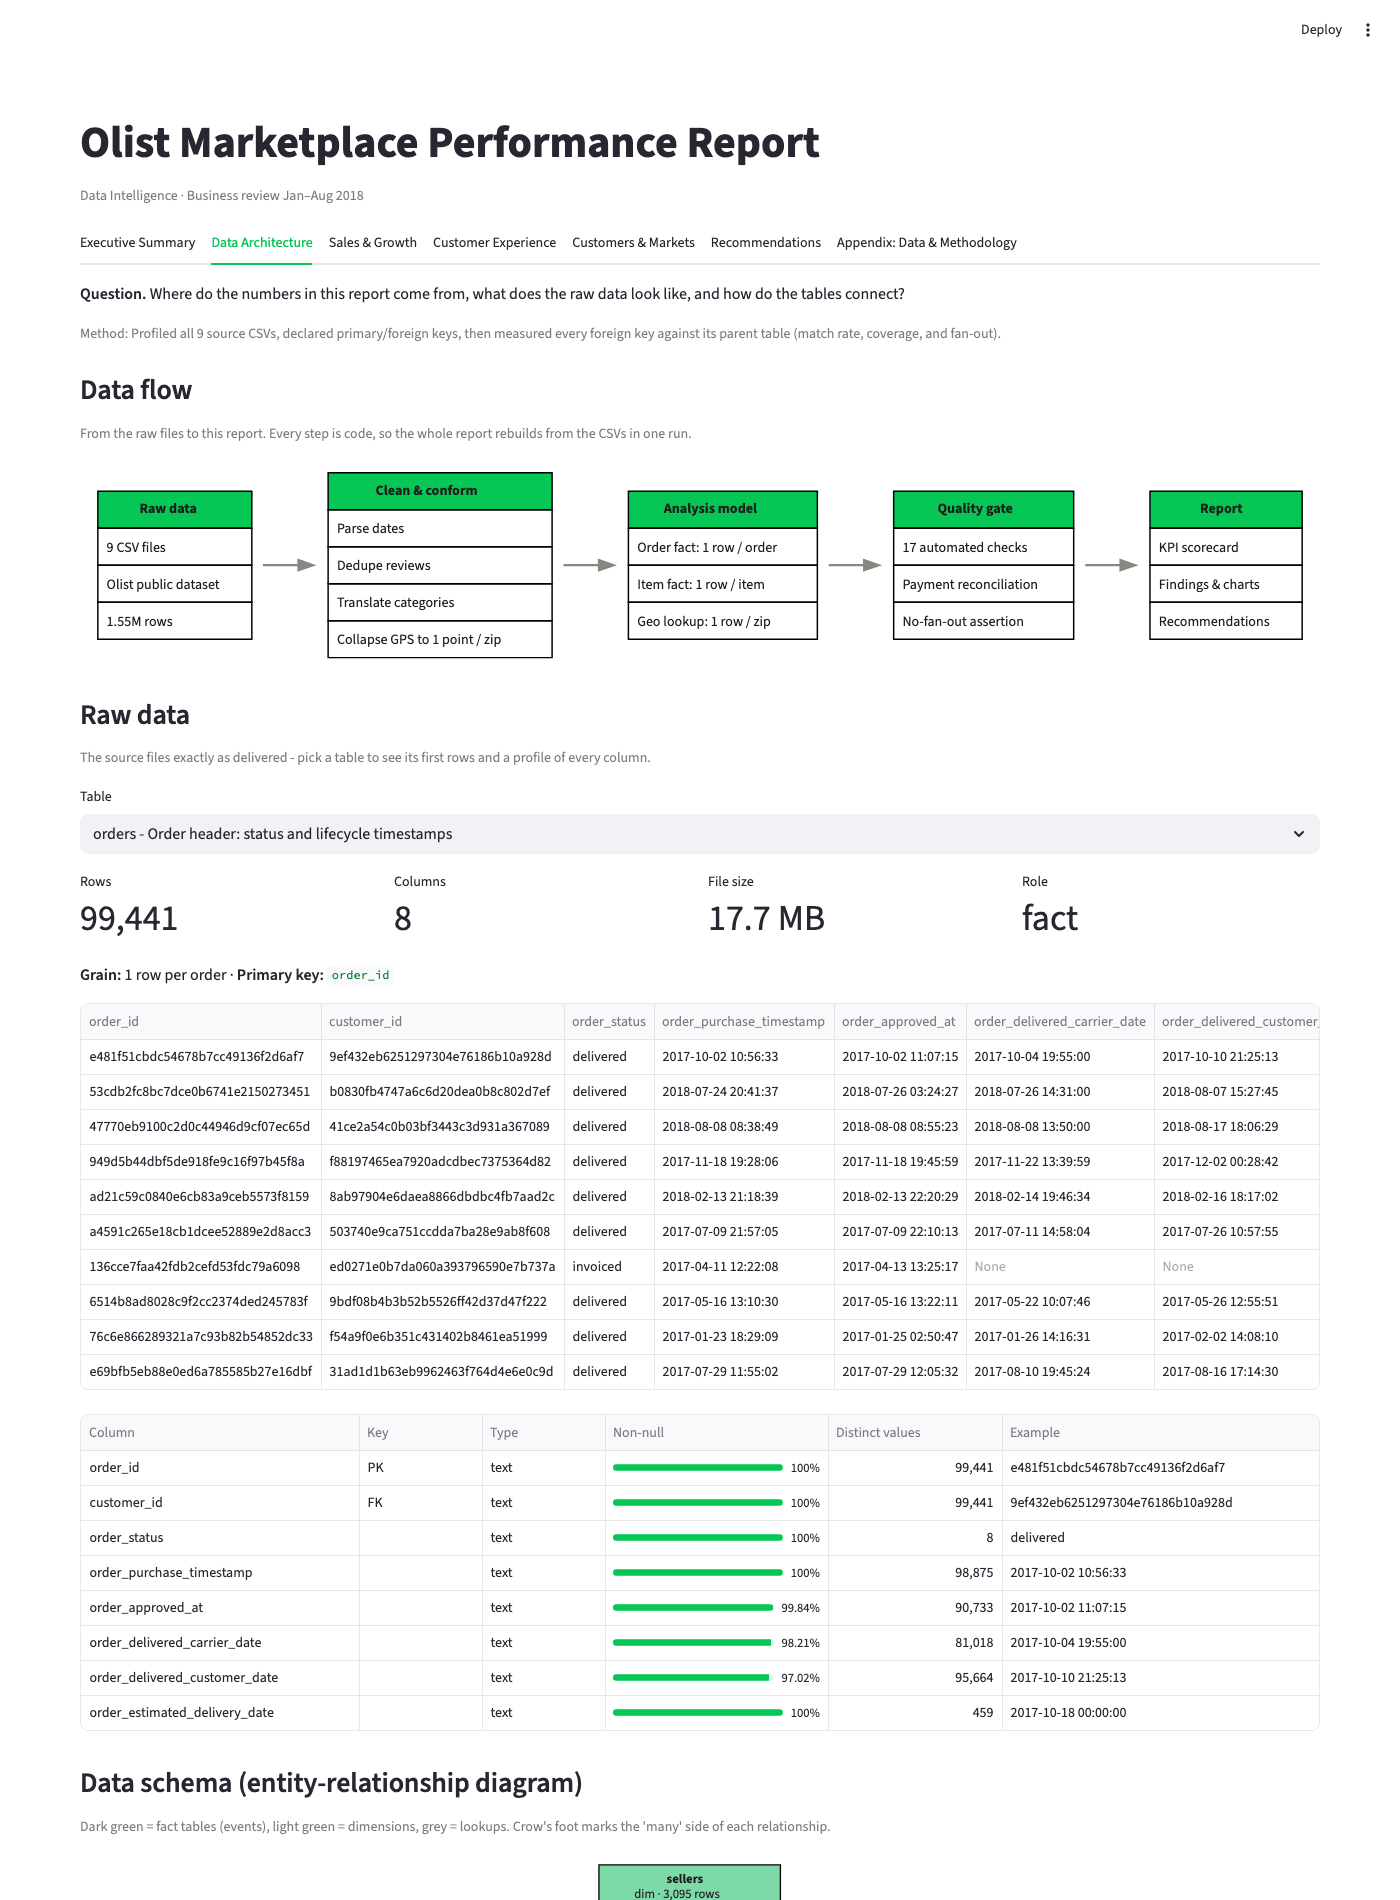
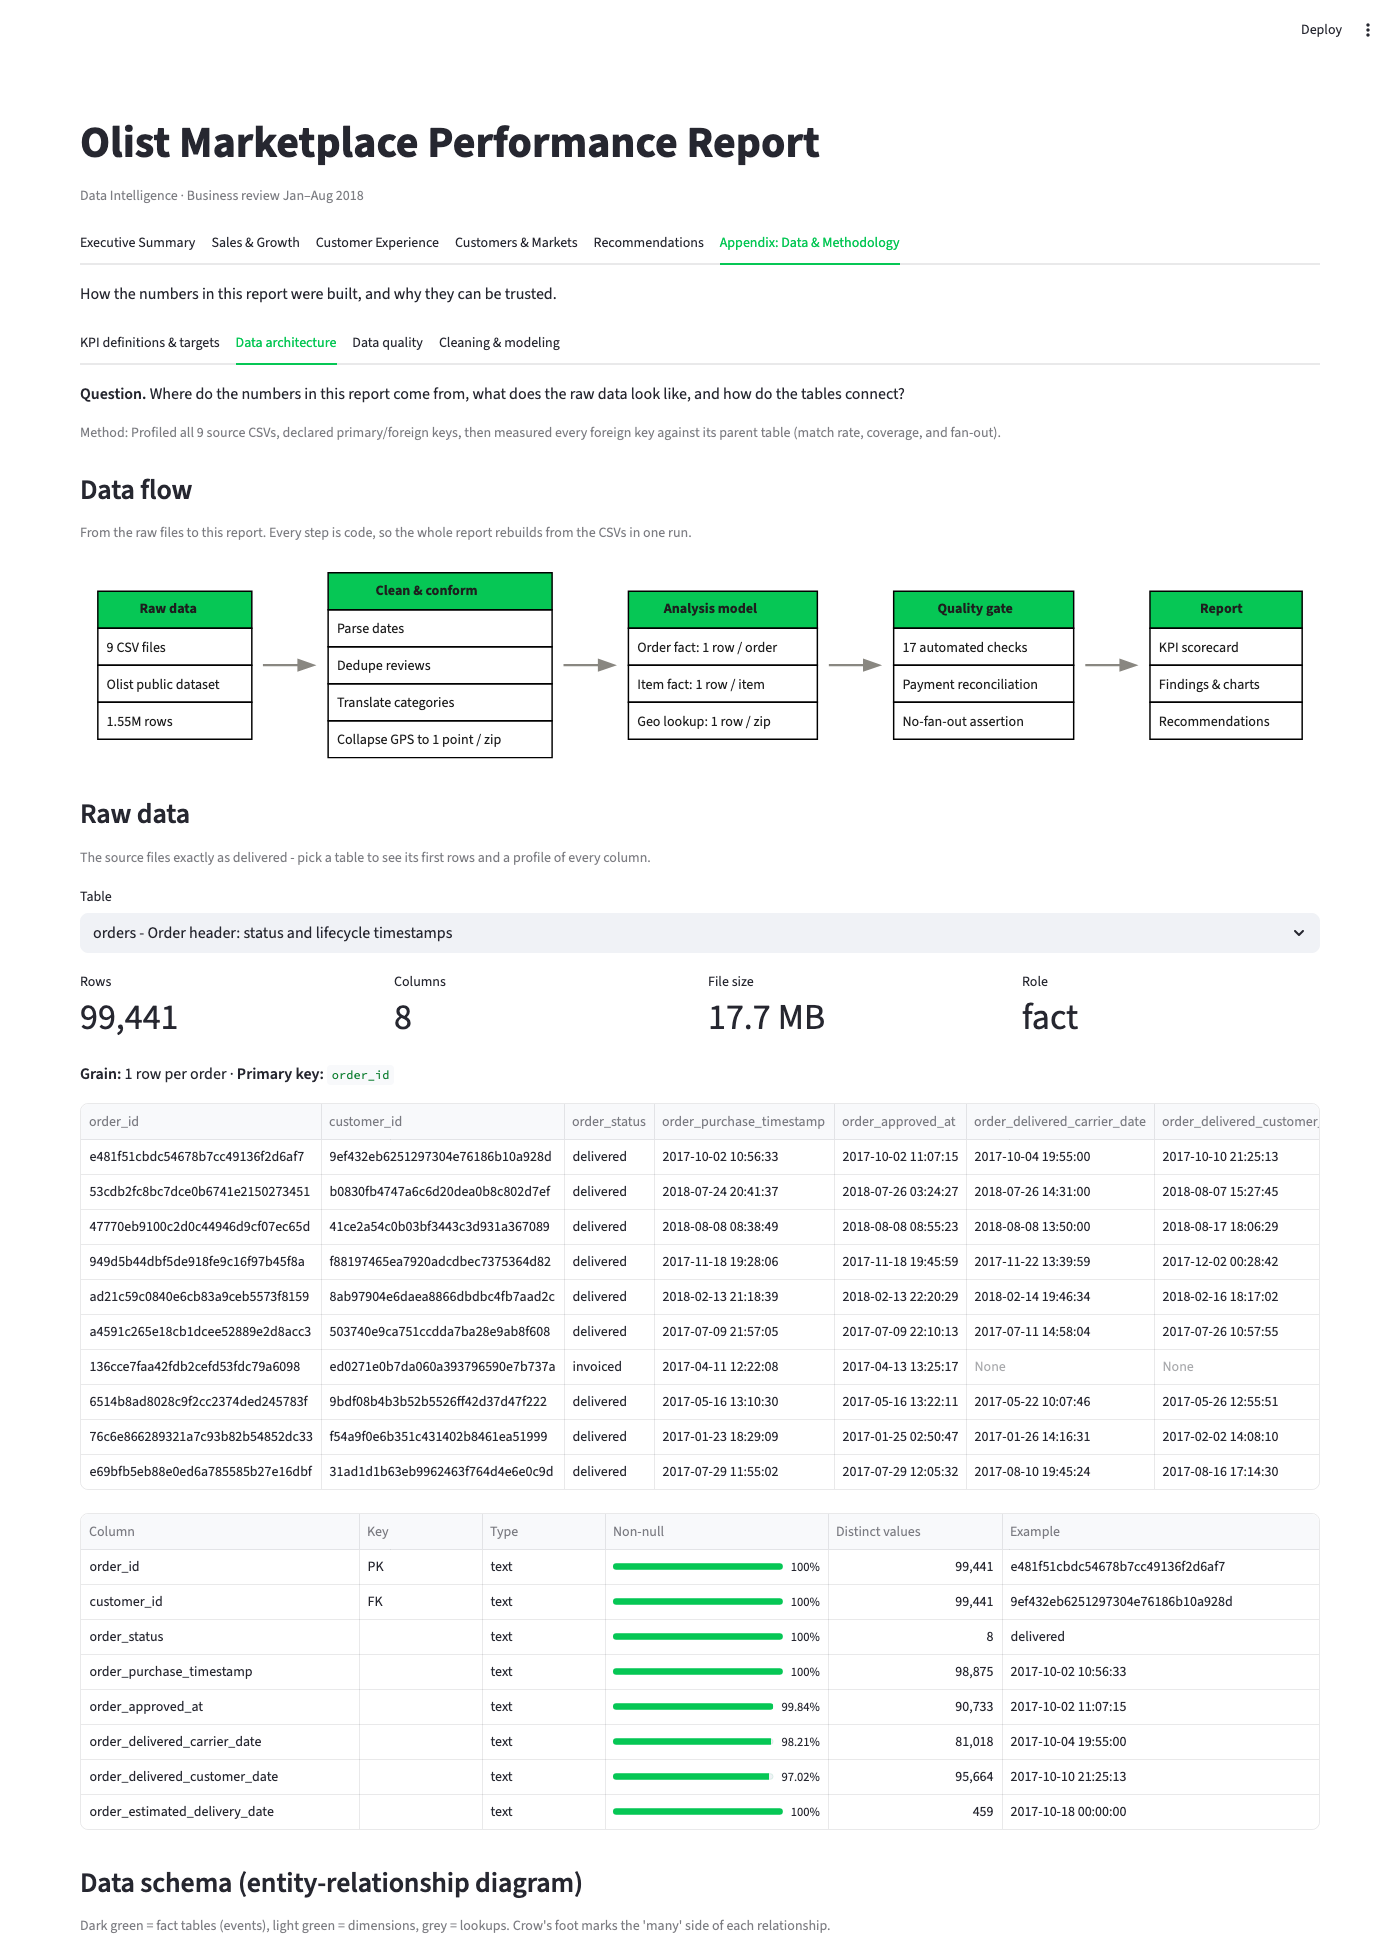
Move data architecture to appendix, remove map

Changed region(s): [[0.0614, 0.0621, 0.9214, 1.0], [0.7986, 0.2484, 0.9521, 0.3726], [0.6143, 0.2484, 0.7679, 0.3726]]

diff --git a/src/sections/customers.py b/src/sections/customers.py
@@ -1,21 +1,18 @@
 import plotly.express as px
 import streamlit as st
 
-from src.currency import get_currency
-from src.data_loader import load_geolocation, load_order_level, load_raw
+from src.data_loader import load_order_level, load_raw
 from src.metrics import orders_per_customer
-from src.quality import BRAZIL_BOUNDS
 from src.kpis import render_cards
-from src.theme import BRAND_COLOR, NEUTRAL_GREY, SEQUENTIAL_GREEN, key_findings, section_header, style_fig, takeaway
+from src.theme import BRAND_COLOR, NEUTRAL_GREY, key_findings, section_header, style_fig, takeaway
 
 
 def render() -> None:
     section_header(
         "Who buys from us, do they come back, and where are they?",
         "Customers counted as people (customer_unique_id), all orders to date. Purchase frequency, share of "
-        "orders and GMV by state, and a map by zip code.",
+        "orders and GMV by state.",
     )
-    symbol, rate = get_currency()
     orders = load_order_level()
     freq = orders_per_customer()
     repeat = freq[freq > 1]
@@ -50,40 +47,6 @@ def render() -> None:
         f"acquiring new buyers, and 3 states ({', '.join(by_state['customer_state'].head(3))}) make up "
         f"{by_state['orders'].head(3).sum():.0f}% of orders - outside them we are still a small player."
     )
-
-    st.subheader("Map")
-    geo = load_geolocation()
-    by_zip = orders.groupby("customer_zip_code_prefix", as_index=False).agg(
-        orders=("order_id", "size"), revenue=("payment_value", "sum"), state=("customer_state", "first")
-    )
-    by_zip["revenue"] = by_zip["revenue"] / rate
-    by_zip = by_zip.merge(geo, left_on="customer_zip_code_prefix", right_on="geolocation_zip_code_prefix", how="inner")
-    # A few zip prefixes are geocoded outside Brazil (one lands in Portugal) and
-    # would force the map to zoom out to another continent.
-    by_zip = by_zip[
-        by_zip["geolocation_lat"].between(BRAZIL_BOUNDS["lat_min"], BRAZIL_BOUNDS["lat_max"])
-        & by_zip["geolocation_lng"].between(BRAZIL_BOUNDS["lon_min"], BRAZIL_BOUNDS["lon_max"])
-    ]
-    fig_geo = px.scatter_map(
-        by_zip,
-        lat="geolocation_lat",
-        lon="geolocation_lng",
-        size="orders",
-        color="revenue",
-        color_continuous_scale=SEQUENTIAL_GREEN,
-        # Revenue per zip is heavily right-skewed; cap the colour domain at the
-        # 95th percentile so the bulk of the map is not rendered near-white.
-        range_color=[0, by_zip["revenue"].quantile(0.95)],
-        hover_name="customer_zip_code_prefix",
-        hover_data={"state": True, "orders": True, "revenue": ":,.0f", "geolocation_lat": False, "geolocation_lng": False},
-        labels={"revenue": f"Revenue ({symbol})", "orders": "Orders"},
-        center={"lat": -14.2, "lon": -51.9},
-        zoom=3.2,
-        height=600,
-        map_style="open-street-map",
-    )
-    st.plotly_chart(style_fig(fig_geo))
-    st.caption(f"{len(by_zip):,} zip prefixes. Bubble size = orders, colour = revenue (capped at the 95th percentile).")
 
     sellers = load_raw("sellers")
     top = by_state.iloc[0]

diff --git a/src/sections/appendix.py b/src/sections/appendix.py
@@ -1,7 +1,7 @@
 import streamlit as st
 
 from src.kpis import KPIS, fmt_target, fmt_value, reporting_periods, scorecard
-from src.sections import modeling, quality
+from src.sections import modeling, quality, schema
 
 
 def _kpi_definitions() -> None:
@@ -33,7 +33,7 @@ def _kpi_definitions() -> None:
 
 def render() -> None:
     st.markdown("How the numbers in this report were built, and why they can be trusted.")
-    tabs = st.tabs(["KPI definitions & targets", "Data quality", "Cleaning & modeling"])
-    for tab, fn in zip(tabs, [_kpi_definitions, quality.render, modeling.render]):
+    tabs = st.tabs(["KPI definitions & targets", "Data architecture", "Data quality", "Cleaning & modeling"])
+    for tab, fn in zip(tabs, [_kpi_definitions, schema.render, quality.render, modeling.render]):
         with tab:
             fn()

diff --git a/app.py b/app.py
@@ -2,7 +2,7 @@ import streamlit as st
 
 from src.data_loader import load_item_level, load_order_level
 from src.kpis import reporting_periods
-from src.sections import appendix, customers, delivery, recommendations, sales, schema, summary
+from src.sections import appendix, customers, delivery, recommendations, sales, summary
 from src.theme import configure_page
 
 configure_page("Olist Marketplace Performance Report")
@@ -15,7 +15,6 @@ load_item_level()
 
 SECTIONS = [
     ("Executive Summary", summary),
-    ("Data Architecture", schema),
     ("Sales & Growth", sales),
     ("Customer Experience", delivery),
     ("Customers & Markets", customers),

diff --git a/README.md b/README.md
@@ -15,7 +15,7 @@ numbers, and recommended actions with sized impact.
 
 ---
 
-| Executive Summary | Data Architecture | Customer Experience |
+| Executive Summary | Appendix: Data Architecture | Customer Experience |
 |:---:|:---:|:---:|
 | ![Executive Summary](docs/img/preview-summary.png) | ![Data Architecture](docs/img/preview-architecture.png) | ![Customer Experience](docs/img/preview-experience.png) |
 
@@ -23,13 +23,12 @@ numbers, and recommended actions with sized impact.
 
 - Executive Summary: bottom line, KPI scorecard (YoY change + On track / Watch / Off track vs.
   target), what went well / what needs attention, top actions
-- Data Architecture: data flow from raw CSVs to report, raw data explorer (sample rows + column
-  profile per table), ER diagram, table catalog and foreign-key checks
 - Sales & Growth, Customer Experience, Customers & Markets: KPI cards, charts with a plain-language
   "what this means", and key findings
 - Recommendations: 5 actions with owner, priority, evidence and estimated impact
-- Appendix: KPI definitions & targets, 17 automated data quality checks, payment reconciliation
-  and the cleansing log
+- Appendix: KPI definitions & targets; data architecture (data flow from raw CSVs to report, raw
+  data explorer, ER diagram, table catalog, foreign-key checks); 17 automated data quality checks,
+  payment reconciliation and the cleansing log
 - Two fact tables with an explicit grain: order-level (1 row per order) and item-level
   (1 row per order item)
 - Fixed USD display conversion and a shared Plotly chart-styling system for a consistent look
